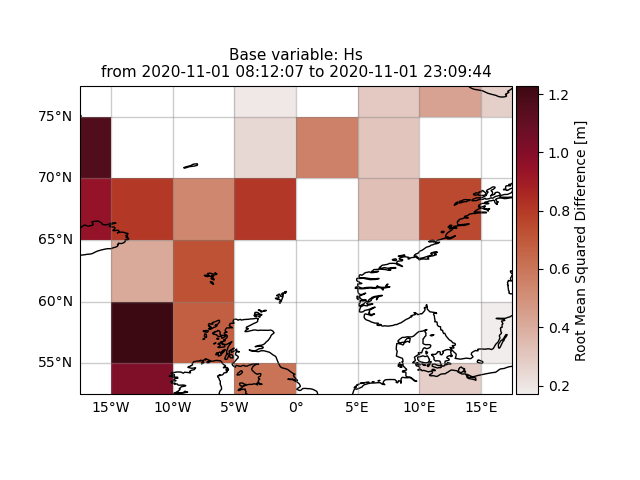
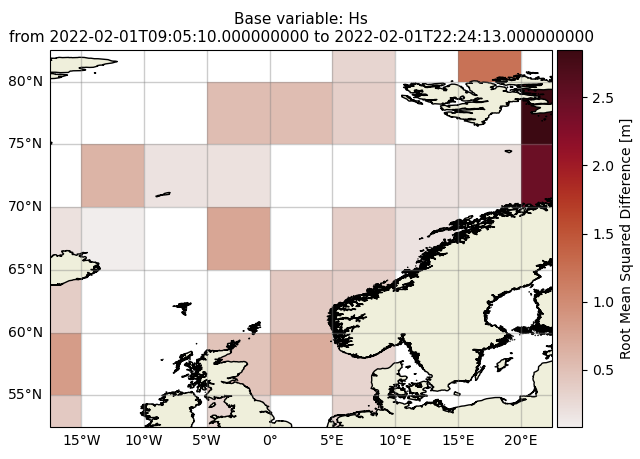
Updated gridder, consolidate and stormtrack sections. Reinserted workshops with version note

diff --git a/docs/tutorials_stormtrack.rst b/docs/tutorials_stormtrack.rst
@@ -56,28 +56,33 @@ Now start you python script:
 .. code-block:: python3
 
    # imports
-   from wavy.satmod import satellite_class as sc
-   from wavy.utils  import parse_date
-   import pandas as pd
+   >>> from wavy.satellite_module import satellite_class as sc
+   >>> from wavy.insitu_module import poi_class as pc
+   >>> from wavy.utils import parse_date
+   >>> import pandas as pd
 
-   # read csv
-   f = pd.read_csv('/path/to/Katrina_track.csv')
-   # convert dates to datetime
-   dt = [parse_date(d) for d in f.date]
-   lons = f.lon.values
-   lats = f.lat.values
+   >>> f = pd.read_csv('/home/patrikb/wavy/tests/data/track/Katrina_track.csv')
+   >>> # convert dates to datetime
+   >>> dt = [parse_date(d) for d in f.date]
+   >>> lons = f.lon.values
+   >>> lats = f.lat.values
 
-   # define poi dictionary for track
-   poi_dict = {'datetime':dt,'longitude':lons,'latitude':lats}
+   >>> # define poi dictionary for track
+   >>> poi_dict = {'time':dt,'lons':lons,'lats':lats}
 
-   # retrievals
-   sco = sc( twin=180,distlim=200,mission='multi',
-             product='cci_L3',region='global',
-             varalias = 'Hs', # default
-             poi=poi_dict )
+   >>> # initialize poi class object
+   >>> pco = pc(poi_dict, nID='Katrina', name='Katrina', varalias='Hs')
 
-   # quicklook including track by passing poi
-   sco.quicklook(m=True,poi=poi_dict)
+   >>> # retrievals
+   >>> sco = sc(twin=180, distlim=200, name='multi',
+   ...          nID='CCIv1_L3', region='global',
+   ...          varalias = 'Hs', # default
+   ...          poi=pco)
+   >>> sco = sco.populate(path='/home/patrikb/wavy/tests/data/L3/multi/')
+
+   >>> # quicklook including track by passing poi
+   >>> sco.quicklook(m=True,poi=pco)
+
 
 This script gathers all footprints within a 200km radius and a +-180min time window given time and location of tracked storm. Executing yields the following figure:
 

diff --git a/docs/tutorials_insitu.rst b/docs/tutorials_insitu.rst
@@ -1,38 +1,7 @@
-Read in-situ observations (.d22, netcdf/thredds, FROST API)
+Read in-situ observations (netcdf/thredds, FROST API)
 ###########################################################
 
 Currently two data types can be read .d22-files and netcdf-files. Together 4 datasources can be accessed: d22-files, nc-files, thredds-server, FROST API. Edit the insity_specs.yaml file in your config folder and adjust the directories.
-
-read .d22 files
-***************
-
-TO UPDATE
-
-.. note::
-
-   The .d22-files used in these examples and specified here are only available to MET Norway staff. However, The same data will soon be operationally accessible via MET Norway's FROST API as shown in the examples.
-
-
-.d22-files can be read in by adjusting d22_var_dicts.yaml config file. Currently, there are wave related variables included. Other variables like wind are about to be included. Another config-file that needs adjustment is the insitu_specs.yaml. There you need to define specs related to the in-situ observation of choice as well as path and filename. A call for the retrieval of an in-situ time series could be like:
-
-.. code-block:: python3
-
-   >>> from wavy.insitumod import insitu_class as ic
-   >>> varalias = 'Hs' # default
-   >>> sd = "2020-01-01"
-   >>> ed = "2020-01-05"
-   >>> nID = 'ekofiskL'
-   >>> sensor = 'waverider'
-   >>> fifo = "d22" # default
-   >>> ico = ic(nID, sd, ed, sensor=sensor)
-
-
-In contrast to the L3 satellite time series, d22 in-situ time series are usually not filtered or underwent rigorous outlier detection. There are various operations that can be performed on the time series. It is in particular interesting to remove double reported values, which is often the case for d22 files. This is done with setting unique=True.
-
-.. code-block:: python3
-
-   >>> ico = ic(nID, sd, ed, sensor=sensor, unique=True)
-
 
 make a FROST call
 *****************

diff --git a/docs/tutorials_gridder.rst b/docs/tutorials_gridder.rst
@@ -11,12 +11,12 @@ Retrieve satellite observations from multiple satellites:
 .. code-block:: python3
 
    >>> from wavy.satellite_module import satellite_class as sc
-   >>> tmpdir = '/home/patrikb/wavy/tests/data/L3/multi/'
-   >>> sd = '2005-8-26'
-   >>> ed = '2005-8-28'
+   >>> tmpdir = '/home/patrikb/wavy/tests/data/L3/s3a/'
+   >>> sd = '2022-2-1'
+   >>> ed = '2022-2-2'
    >>> region = 'global'
-   >>> name = 'multi'
-   >>> nID = 'CCIv1_L3'
+   >>> name = 's3a'
+   >>> nID = 'cmems_L3_NRT'
    >>> sco = sc(sd=sd,ed=ed,region=region,nID=nID,name=name).populate(path=tmpdir)
 
 Apply the gridder:
@@ -60,9 +60,9 @@ We first need to collocate the data with the collocation_class
 
 .. code-block:: python3
 
-   >>> from wavy.collocmod import collocation_class as cc
+   >>> from wavy.collocation_module import collocation_class as cc 
    >>> # collocate
-   >>> cco = cc(model='mwam4',obs_obj_in=sco,distlim=6,date_incr=1)
+   >>> cco = cc(model='ww3_4km',oco=sco,distlim=6,leadtime='best',date_incr=1)
    >>> # reduce region to part of model domain for better visual
    >>> bb = (-20,20,50,80) # lonmin,lonmax,latmin,latmax
    >>> res = (5,5) # lon/lat

diff --git a/docs/tutorials_consolidate.rst b/docs/tutorials_consolidate.rst
@@ -5,13 +5,15 @@ The consolidate_class enables the consolidation of multiple satellite_class or i
 
 .. code-block:: python3
 
-   >>> # imports
+   >>> from wavy.satellite_module import satellite_class as sc
    >>> from wavy.consolidate import consolidate_class as cs
-   >>> from wavy.satmod import satellite_class as sc
-   >>> # get satellite data rom s3a and s3b
-   >>> sco1 = sc( sdate="2020-11-1 12",region="NordicSeas",mission='s3a' )
-   >>> sco2 = sc( sdate="2020-11-1 13",region="NordicSeas",mission='s3b' )
-   >>> # consolidate obs
+
+   >>> # satellite consolidate 
+   >>> sco1 = sc(sd="2022-2-1",ed ="2022-2-3",region="NordicSeas", nID="cmems_L3_NRT",
+   ...           name='s3a').populate(path='/home/patrikb/wavy/tests/data/L3/s3a')
+   >>> sco2 = sc(sd="2022-2-1",ed ="2022-2-3",region="NordicSeas", nID="cmems_L3_NRT",
+   ...           name='s3b').populate(path='/home/patrikb/wavy/tests/data/L3/s3b')
+
    >>> cso = cs([sco1,sco2])
 
 The same can be done with insitu_class objects.

diff --git a/docs/oneocean.rst b/docs/oneocean.rst
@@ -1,5 +1,10 @@
 One Ocean Expedition
 ====================
+
+.. note::
+
+   The codes used for this section are from an older version of **wavy**. It can be adapted with the newest version of the package, however you can still find the version used for this workshop on `github <https://github.com/bohlinger/wavy/tree/595bd10afed4641f6add63e120052dfc98e8a26a>`_.
+   
 The following examples are drawn from work where **wavy** was used  related to the `One Ocean Expedition <https://oneoceanexpedition.com/>`_.
 
 1. Collocating satellite tracks with drifter

diff --git a/docs/index.rst b/docs/index.rst
@@ -54,11 +54,13 @@ Contents
 ========
 
 .. toctree::
-   :maxdepth: 3
+   :maxdepth: 4
    :glob:
 
    installation
    tutorials
+   workshops
+   oneocean
    gallery
    autoapi/index
 

diff --git a/docs/tutorials.rst b/docs/tutorials.rst
@@ -30,4 +30,3 @@ e.g.:
    tutorials_stats
    tutorials_triple_collocation
    tutorials_gridder
-   tutorials_wavyQuick
